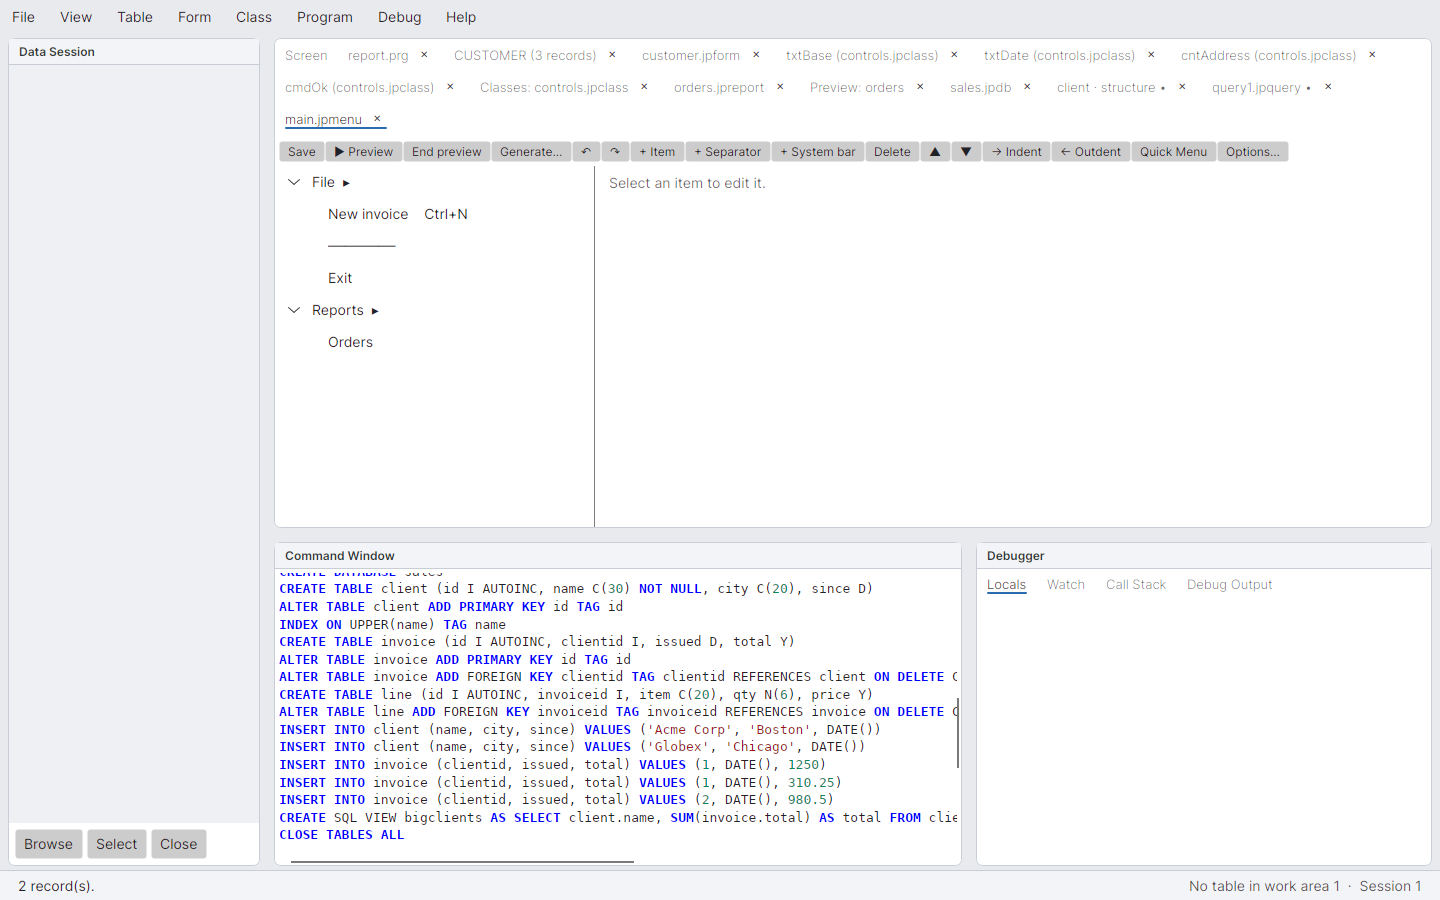
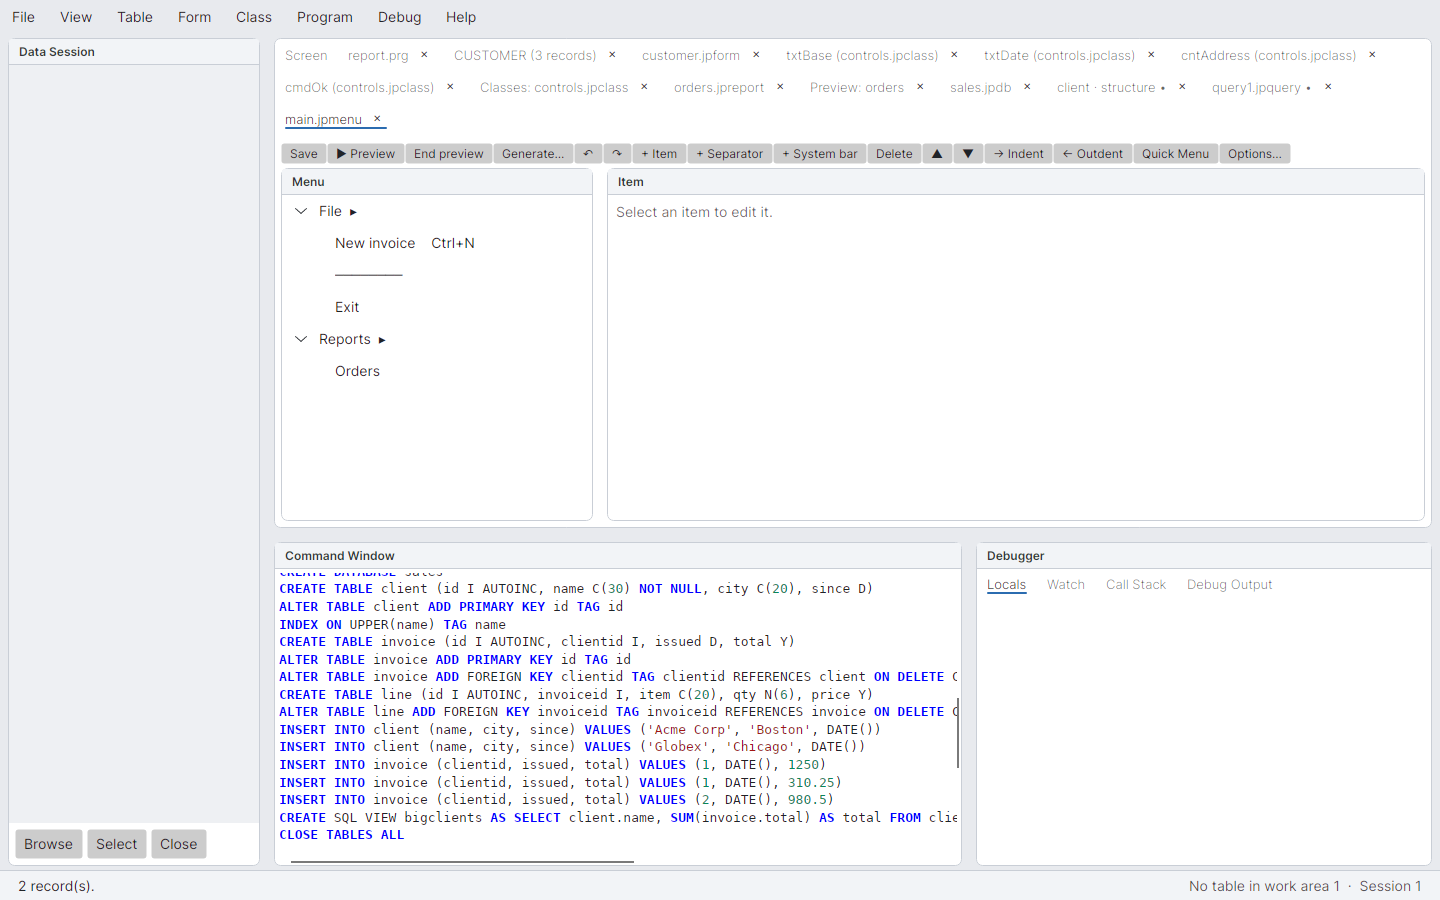
IDE: outlined panels in every designer
Report, Query/View, Menu, Table and Database designers, the Class Browser and
the Project Manager now split their areas into titled cards like the main
window and the Form Designer, with transparent splitters between them.

Claude-Session: https://claude.ai/code/session_01RDMm86zLe9FgL8KZcMp46j

Changed region(s): [[0.1875, 0.1556, 0.9062, 0.4356]]

diff --git a/src/JoePro.Ide/TableDesigner.cs b/src/JoePro.Ide/TableDesigner.cs
@@ -46,8 +46,8 @@ public sealed class TableDesigner : UserControl
     private readonly TextBox _name = new() { Width = 220 };
     private readonly ListBox _fields = new() { [Avalonia.Automation.AutomationProperties.NameProperty] = "Fields", FontFamily = new FontFamily("Cascadia Mono,Consolas,Menlo,DejaVu Sans Mono,monospace"), FontSize = 12 };
     private readonly ListBox _tags = new() { [Avalonia.Automation.AutomationProperties.NameProperty] = "Index tags", FontFamily = new FontFamily("Cascadia Mono,Consolas,Menlo,DejaVu Sans Mono,monospace"), FontSize = 12 };
-    private readonly StackPanel _fieldEditor = new() { Spacing = 4, Margin = new Thickness(10, 0) };
-    private readonly StackPanel _tagEditor = new() { Spacing = 4, Margin = new Thickness(10, 0) };
+    private readonly StackPanel _fieldEditor = new() { Spacing = 4, Margin = new Thickness(10, 8) };
+    private readonly StackPanel _tagEditor = new() { Spacing = 4, Margin = new Thickness(10, 8) };
     private readonly TextBlock _changes = new() { TextWrapping = TextWrapping.Wrap, Opacity = 0.85, Margin = new Thickness(0, 4) };
     private readonly TextBlock _errors = new() { TextWrapping = TextWrapping.Wrap, Foreground = Brushes.IndianRed };
     private readonly Dictionary<string, TextBox> _tableBoxes = new();
@@ -84,14 +84,17 @@ public sealed class TableDesigner : UserControl
                 B("▼", "Move the selected field down", () => MoveField(1)),
             },
         };
-        var fieldList = new DockPanel { Width = 300 };
+        var fieldList = new DockPanel();
+        fieldButtons.Margin = new Thickness(4);
         DockPanel.SetDock(fieldButtons, Dock.Bottom);
         fieldList.Children.Add(fieldButtons);
         fieldList.Children.Add(_fields);
-        var fieldsTab = new DockPanel { Margin = new Thickness(6) };
-        DockPanel.SetDock(fieldList, Dock.Left);
-        fieldsTab.Children.Add(fieldList);
-        fieldsTab.Children.Add(new ScrollViewer { Content = _fieldEditor });
+        var fieldListCard = IdeTheme.Card(Strings.T("Fields"), fieldList);
+        fieldListCard.Width = 300;
+        var fieldsTab = new DockPanel { Margin = new Thickness(2) };
+        DockPanel.SetDock(fieldListCard, Dock.Left);
+        fieldsTab.Children.Add(fieldListCard);
+        fieldsTab.Children.Add(IdeTheme.Card(Strings.T("Field"), new ScrollViewer { Content = _fieldEditor }));
 
         var tagButtons = new WrapPanel
         {
@@ -101,14 +104,17 @@ public sealed class TableDesigner : UserControl
                 B("Delete", "Remove the selected index", () => { if (SelectedTag is { } t) RemoveTag(t.Name); }),
             },
         };
-        var tagList = new DockPanel { Width = 300 };
+        var tagList = new DockPanel();
+        tagButtons.Margin = new Thickness(4);
         DockPanel.SetDock(tagButtons, Dock.Bottom);
         tagList.Children.Add(tagButtons);
         tagList.Children.Add(_tags);
-        var tagsTab = new DockPanel { Margin = new Thickness(6) };
-        DockPanel.SetDock(tagList, Dock.Left);
-        tagsTab.Children.Add(tagList);
-        tagsTab.Children.Add(new ScrollViewer { Content = _tagEditor });
+        var tagListCard = IdeTheme.Card(Strings.T("Indexes"), tagList);
+        tagListCard.Width = 300;
+        var tagsTab = new DockPanel { Margin = new Thickness(2) };
+        DockPanel.SetDock(tagListCard, Dock.Left);
+        tagsTab.Children.Add(tagListCard);
+        tagsTab.Children.Add(IdeTheme.Card(Strings.T("Index"), new ScrollViewer { Content = _tagEditor }));
 
         var tabs = new TabControl
         {
@@ -310,7 +316,6 @@ public sealed class TableDesigner : UserControl
         };
         var sized = t is 'C' or 'V' or 'Q' or 'N' or 'F';
         var withDecimals = t is 'N' or 'F' or 'B';
-        _fieldEditor.Children.Add(new TextBlock { Text = "Field", FontWeight = FontWeight.SemiBold });
         _fieldEditor.Children.Add(Labeled("Name", Text(f.Name.ToLowerInvariant(), v => UpdateField(x => x with { Name = v.Trim().ToUpperInvariant() }))));
         _fieldEditor.Children.Add(Labeled("Type", type));
         var width = Text(sized ? f.Width.ToString(CultureInfo.InvariantCulture) : "", v => UpdateField(x => x with { Width = ParseInt(v, x.Width) }));
@@ -414,7 +419,6 @@ public sealed class TableDesigner : UserControl
                     if (Design.Tags[i].Kind == TagKind.Primary && i != _tags.SelectedIndex) Design.Tags[i] = Design.Tags[i] with { Kind = TagKind.Candidate };
             UpdateTag(x => x with { Kind = k });
         };
-        _tagEditor.Children.Add(new TextBlock { Text = "Index", FontWeight = FontWeight.SemiBold });
         _tagEditor.Children.Add(Labeled("Name", Text(t.Name.ToLowerInvariant(), v => UpdateTag(x => x with { Name = v.Trim().ToUpperInvariant() }))));
         _tagEditor.Children.Add(Labeled("Type", kind, "Primary and candidate indexes allow no duplicate keys; a relation starts at one of them"));
         _tagEditor.Children.Add(Labeled("Expression", Text(t.Expression, v => UpdateTag(x => x with { Expression = v.Trim() }))));

diff --git a/src/JoePro.Ide/ReportDesigner.cs b/src/JoePro.Ide/ReportDesigner.cs
@@ -76,16 +76,11 @@ public sealed class ReportDesigner : UserControl
         _toolbox.SelectionChanged += (_, _) => ArmedTool = _toolbox.SelectedItem is ListBoxItem { Tag: string t } && t.Length > 0 ? t : null;
         _fields.DoubleTapped += (_, _) => { if (_fields.SelectedItem is ListBoxItem { Tag: string f }) AddField(f); };
 
-        var left = new DockPanel { Width = 170 };
-        var tbHeader = Header("Toolbox");
-        DockPanel.SetDock(tbHeader, Dock.Top);
-        left.Children.Add(tbHeader);
-        DockPanel.SetDock(_toolbox, Dock.Top);
-        left.Children.Add(_toolbox);
-        var fHeader = Header("Fields (double-click)");
-        DockPanel.SetDock(fHeader, Dock.Top);
-        left.Children.Add(fHeader);
-        left.Children.Add(_fields);
+        var left = new Grid { Width = 180, RowDefinitions = new RowDefinitions("Auto,*") };
+        left.Children.Add(IdeTheme.Card(Strings.T("Toolbox"), _toolbox));
+        var fieldsCard = IdeTheme.Card(Strings.T("Fields (double-click)"), _fields);
+        Grid.SetRow(fieldsCard, 1);
+        left.Children.Add(fieldsCard);
 
         var surfaceHost = new Panel { Children = { _surface, _adorners }, HorizontalAlignment = HorizontalAlignment.Left, VerticalAlignment = VerticalAlignment.Top, Margin = new Thickness(16) };
         var scroller = new ScrollViewer
@@ -108,34 +103,28 @@ public sealed class ReportDesigner : UserControl
         _surface.KeyDown += (_, e) => OnKey(e);
 
         var previewPane = new DockPanel();
-        var previewHeader = Header("Live preview");
-        DockPanel.SetDock(previewHeader, Dock.Top);
-        previewPane.Children.Add(previewHeader);
         DockPanel.SetDock(_previewMessage, Dock.Top);
         previewPane.Children.Add(_previewMessage);
         previewPane.Children.Add(_previewHost);
         _center = new Grid { RowDefinitions = new RowDefinitions("3*,Auto,2*") };
-        _center.Children.Add(scroller);
-        var split = new GridSplitter { Height = 5, ResizeDirection = GridResizeDirection.Rows };
+        _center.Children.Add(IdeTheme.Card(Strings.T("Report layout"), scroller));
+        var split = new GridSplitter { Height = 4, ResizeDirection = GridResizeDirection.Rows, Background = Brushes.Transparent };
         Grid.SetRow(split, 1);
         _center.Children.Add(split);
-        Grid.SetRow(previewPane, 2);
-        _center.Children.Add(previewPane);
+        var previewCard = IdeTheme.Card(Strings.T("Live preview"), previewPane);
+        Grid.SetRow(previewCard, 2);
+        _center.Children.Add(previewCard);
 
-        var right = new DockPanel { Width = 300 };
-        DockPanel.SetDock(_propsTitle, Dock.Top);
-        right.Children.Add(_propsTitle);
-        right.Children.Add(new ScrollViewer { Content = _props });
-
-        var body = new Grid { ColumnDefinitions = new ColumnDefinitions("Auto,*,Auto") };
+        var right = IdeTheme.Card(_propsTitle, new ScrollViewer { Content = _props });
+        var body = new Grid { ColumnDefinitions = new ColumnDefinitions("Auto,*,300") };
         body.Children.Add(left);
         Grid.SetColumn(_center, 1);
         body.Children.Add(_center);
-        var rightBorder = new Border { Child = right, BorderThickness = new Thickness(1, 0, 0, 0), BorderBrush = Brushes.Gray };
-        Grid.SetColumn(rightBorder, 2);
-        body.Children.Add(rightBorder);
+        Grid.SetColumn(right, 2);
+        body.Children.Add(right);
         var toolbar = BuildToolbar();
-        var root = new DockPanel();
+        toolbar.Margin = new Thickness(4, 4, 4, 0);
+        var root = new DockPanel { Margin = new Thickness(2) };
         DockPanel.SetDock(toolbar, Dock.Top);
         root.Children.Add(toolbar);
         root.Children.Add(body);
@@ -146,7 +135,6 @@ public sealed class ReportDesigner : UserControl
         RefreshFields();
     }
 
-    private static TextBlock Header(string text) => new() { Text = text, FontWeight = FontWeight.SemiBold, Margin = new Thickness(6, 4) };
 
     public ReportDesignSession Session { get; }
     public string? FilePath { get; private set; }

diff --git a/src/JoePro.Ide/QueryDesigner.cs b/src/JoePro.Ide/QueryDesigner.cs
@@ -110,19 +110,22 @@ public sealed class QueryDesigner : UserControl
         if (IsView) _tabs.Items.Add(new TabItem { FontSize = 14, Header = "Update Criteria", Content = new ScrollViewer { Content = _updateTab } });
         _tabs.Items.Add(new TabItem { FontSize = 14, Header = "SQL", Content = _sql });
         _tabs.Items.Add(new TabItem { FontSize = 14, Header = "Results", Content = _results });
-        var diagram = new Border
-        {
-            Height = 230, BorderThickness = new Thickness(0, 0, 0, 1), BorderBrush = new SolidColorBrush(Color.FromArgb(60, 128, 128, 128)),
-            Child = new ScrollViewer { Content = _canvas, HorizontalScrollBarVisibility = Avalonia.Controls.Primitives.ScrollBarVisibility.Auto },
-        };
-        var root = new DockPanel();
+        var diagram = IdeTheme.Card(Strings.T("Tables"),
+            new ScrollViewer { Content = _canvas, HorizontalScrollBarVisibility = Avalonia.Controls.Primitives.ScrollBarVisibility.Auto });
+        var body = new Grid { RowDefinitions = new RowDefinitions("230,Auto,*") };
+        body.Children.Add(diagram);
+        var split = new GridSplitter { Height = 4, ResizeDirection = GridResizeDirection.Rows, Background = Brushes.Transparent };
+        Grid.SetRow(split, 1);
+        body.Children.Add(split);
+        var details = IdeTheme.Card(Strings.T(IsView ? "View definition" : "Query definition"), _tabs);
+        Grid.SetRow(details, 2);
+        body.Children.Add(details);
+        var root = new DockPanel { Margin = new Thickness(2) };
         DockPanel.SetDock(toolbar, Dock.Top);
         root.Children.Add(toolbar);
         DockPanel.SetDock(_banner, Dock.Top);
         root.Children.Add(_banner);
-        DockPanel.SetDock(diagram, Dock.Top);
-        root.Children.Add(diagram);
-        root.Children.Add(_tabs);
+        root.Children.Add(body);
         Content = root;
         _canvas.PointerMoved += OnPointerMoved;
         _canvas.PointerReleased += OnPointerReleased;

diff --git a/src/JoePro.Ide/ClassBrowser.cs b/src/JoePro.Ide/ClassBrowser.cs
@@ -65,10 +65,12 @@ public sealed class ClassBrowser : UserControl
                 ModifyRequested?.Invoke(LibraryPath, SelectedClass);
         };
 
-        var left = new DockPanel { Width = 260 };
+        var classList = new DockPanel();
         DockPanel.SetDock(_filter, Dock.Top);
-        left.Children.Add(_filter);
-        left.Children.Add(_tree);
+        classList.Children.Add(_filter);
+        classList.Children.Add(_tree);
+        var left = IdeTheme.Card(Strings.T("Classes"), classList);
+        left.Width = 270;
 
         var tabs = new TabControl { Padding = new Thickness(0) };
         tabs.Items.Add(new TabItem { Header = "Members", Content = _members, FontSize = 13 });
@@ -78,17 +80,19 @@ public sealed class ClassBrowser : UserControl
         DockPanel.SetDock(info, Dock.Top);
         right.Children.Add(info);
         right.Children.Add(tabs);
+        var rightCard = IdeTheme.Card(Strings.T("Class"), right);
 
         var body = new Grid { ColumnDefinitions = new ColumnDefinitions("Auto,Auto,*") };
         body.Children.Add(left);
-        var split = new GridSplitter { Width = 5, ResizeDirection = GridResizeDirection.Columns };
+        var split = new GridSplitter { Width = 4, ResizeDirection = GridResizeDirection.Columns, Background = Brushes.Transparent };
         Grid.SetColumn(split, 1);
         body.Children.Add(split);
-        Grid.SetColumn(right, 2);
-        body.Children.Add(right);
+        Grid.SetColumn(rightCard, 2);
+        body.Children.Add(rightCard);
 
-        var root = new DockPanel();
+        var root = new DockPanel { Margin = new Thickness(2) };
         var toolbar = BuildToolbar();
+        toolbar.Margin = new Thickness(4, 4, 4, 0);
         DockPanel.SetDock(toolbar, Dock.Top);
         root.Children.Add(toolbar);
         DockPanel.SetDock(_legacyNote, Dock.Top);

diff --git a/src/JoePro.Ide/MenuDesigner.cs b/src/JoePro.Ide/MenuDesigner.cs
@@ -87,14 +87,15 @@ public sealed class MenuDesigner : UserControl
             },
         };
         var body = new Grid { ColumnDefinitions = new ColumnDefinitions("320,Auto,*") };
-        body.Children.Add(new Border { Child = _tree, BorderThickness = new Thickness(0, 0, 1, 0), BorderBrush = Brushes.Gray });
-        var split = new GridSplitter { Width = 5, ResizeDirection = GridResizeDirection.Columns };
+        body.Children.Add(IdeTheme.Card(Strings.T("Menu"), _tree));
+        var split = new GridSplitter { Width = 4, ResizeDirection = GridResizeDirection.Columns, Background = Brushes.Transparent };
         Grid.SetColumn(split, 1);
         body.Children.Add(split);
-        var scroller = new ScrollViewer { Content = _props };
+        var scroller = IdeTheme.Card(Strings.T("Item"), new ScrollViewer { Content = _props });
         Grid.SetColumn(scroller, 2);
         body.Children.Add(scroller);
-        var root = new DockPanel();
+        var root = new DockPanel { Margin = new Thickness(2) };
+        toolbar.Margin = new Thickness(4, 4, 4, 0);
         DockPanel.SetDock(toolbar, Dock.Top);
         root.Children.Add(toolbar);
         root.Children.Add(body);

diff --git a/src/JoePro.Ide/ProjectManager.cs b/src/JoePro.Ide/ProjectManager.cs
@@ -91,16 +91,20 @@ public sealed class ProjectManager : UserControl
         DockPanel.SetDock(_search, Dock.Top);
         searchPanel.Children.Add(_search);
         searchPanel.Children.Add(_results);
-        var root = new DockPanel();
+        var files = new DockPanel();
+        DockPanel.SetDock(_filter, Dock.Top);
+        files.Children.Add(_filter);
+        files.Children.Add(_tabs);
+        var searchCard = IdeTheme.Card(Strings.T("Find in files"), searchPanel);
+        var root = new DockPanel { Margin = new Thickness(2) };
+        toolbar.Margin = new Thickness(4, 4, 4, 0);
         DockPanel.SetDock(toolbar, Dock.Top);
         root.Children.Add(toolbar);
-        DockPanel.SetDock(_filter, Dock.Top);
-        root.Children.Add(_filter);
         DockPanel.SetDock(_info, Dock.Bottom);
         root.Children.Add(_info);
-        DockPanel.SetDock(searchPanel, Dock.Bottom);
-        root.Children.Add(searchPanel);
-        root.Children.Add(_tabs);
+        DockPanel.SetDock(searchCard, Dock.Bottom);
+        root.Children.Add(searchCard);
+        root.Children.Add(IdeTheme.Card(Strings.T("Files"), files));
         Content = root;
         Fill();
     }

diff --git a/src/JoePro.Ide/DatabaseDesigner.cs b/src/JoePro.Ide/DatabaseDesigner.cs
@@ -78,9 +78,11 @@ public sealed class DatabaseDesigner : UserControl
                 B("Arrange", "Lay the tables out in a grid", Arrange),
             },
         };
-        var scroller = new ScrollViewer { Content = _canvas, HorizontalScrollBarVisibility = Avalonia.Controls.Primitives.ScrollBarVisibility.Auto };
-        var sideBorder = new Border { BorderThickness = new Thickness(1, 0, 0, 0), BorderBrush = new SolidColorBrush(Color.FromArgb(60, 128, 128, 128)), Child = new ScrollViewer { Content = _side } };
-        var root = new DockPanel();
+        var scroller = IdeTheme.Card(Strings.T("Tables and relations"),
+            new ScrollViewer { Content = _canvas, HorizontalScrollBarVisibility = Avalonia.Controls.Primitives.ScrollBarVisibility.Auto });
+        var sideBorder = IdeTheme.Card(Strings.T("Details"), new ScrollViewer { Content = _side });
+        var root = new DockPanel { Margin = new Thickness(2) };
+        toolbar.Margin = new Thickness(4, 4, 4, 0);
         DockPanel.SetDock(toolbar, Dock.Top);
         root.Children.Add(toolbar);
         DockPanel.SetDock(sideBorder, Dock.Right);
